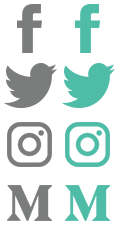
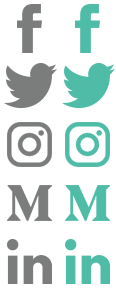
Post llegar a santa fe y linkedin en footer

diff --git a/css/site.css b/css/site.css
@@ -179,6 +179,23 @@ a.social-medium:hover{
   background: url('../img/redes.png') -145px -87px;
 }
 
+.social-linkedin{
+  width: 29px;
+  height: 29px;
+  padding: 0 !important;
+  margin-top: 20px;
+  margin-left: 10px;
+  display: inline-block;
+  background: url('../img/redes.png') 0 -116px;
+  background-size: 58px;
+  overflow: hidden;
+}
+
+a.social-linkedin:hover{
+  background: url('../img/redes.png') -145px -116px;
+  background-size: 58px;
+}
+
 
 .btn-green{
   border: none;
@@ -1844,7 +1861,7 @@ ul.testimoniales-blog li img{
     /*-webkit-animation-iteration-count: infinite;*/
   }
   .footer ul{
-    margin-left: 12%;
+    margin-left: 0;
     text-align: center;
   }
 

diff --git a/_includes/footer.md b/_includes/footer.md
@@ -72,6 +72,9 @@
         <li class="social-mobile">
           <a href="https://medium.com/@jettymx" target="_blank" class="social-medium"></a>
         </li>
+        <li class="social-mobile">
+          <a href="https://mx.linkedin.com/company/jetty.mx" target="_blank" class="social-linkedin"></a>
+        </li>
       </ul>
     </div>
   </div>
